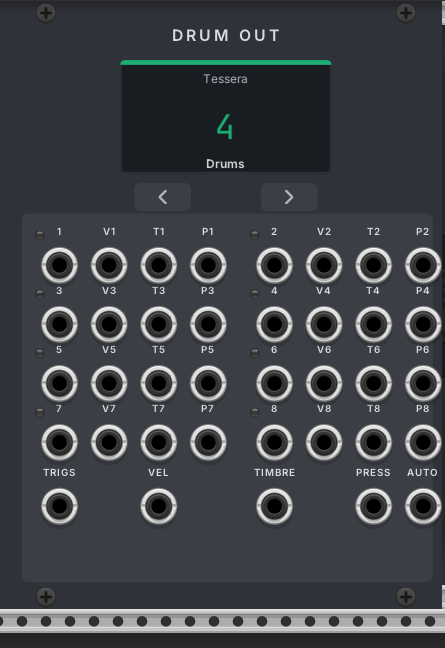
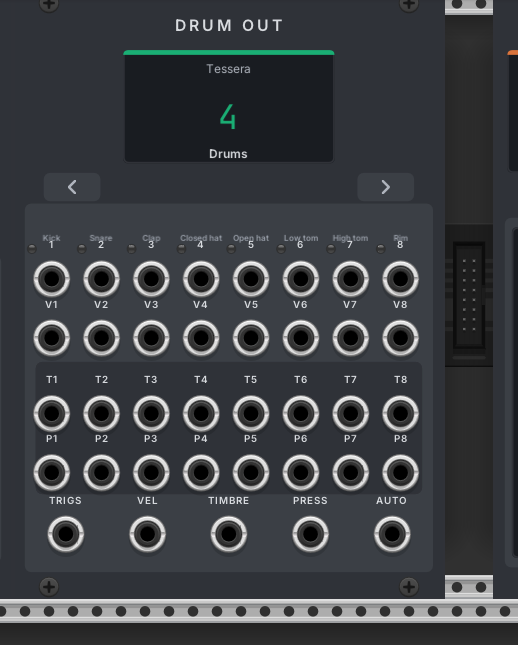
Redesign Drum Out as one vertical strip per lane with its name in the lane colour

diff --git a/src/ui/DrumOutWidget.cpp b/src/ui/DrumOutWidget.cpp
@@ -1,8 +1,10 @@
 #include "../module/DrumOutModule.hpp"
+#include "../module/TesseraModule.hpp"
 #include "../plugin.hpp"
 #include "ModuleUndo.hpp"
 #include "OutputMenus.hpp"
 #include "TrackOutDisplay.hpp"
+#include "widgets/Draw.hpp"
 #include "widgets/IconButton.hpp"
 #include "widgets/Lights.hpp"
 #include "widgets/Panel.hpp"
@@ -14,49 +16,95 @@ namespace {
 using rack::math::Rect;
 using rack::math::Vec;
 
-// Two layouts: the compact module is 10 HP (a trigger and a velocity jack per lane); expanded — the module
-// menu's "Expression outputs" — it is 18 HP and every lane also has its timbre and pressure jacks.
-constexpr int kCompactHp = 10;
-constexpr int kExpandedHp = 18;
+constexpr int kHp = 18;
 
-// Layout in mm. The compact panel is 50.8 x 128.5, the expanded 91.4 x 128.5.
-const Rect kDisplay(3, 12.5f, 44.8f, 24);
-const Rect kWideDisplay(23.3f, 12.5f, 44.8f, 24); // the same display, centred on the wide panel
+// Layout in mm. The panel is 91.4 x 128.5.
+const Rect kDisplay(23.3f, 12.5f, 44.8f, 24);
 constexpr float kButtonRow = 41.5f;
 const Vec kButtonSize(12, 6);
+const Rect kOutputPlate(2.5f, 45, 86.4f, 78);
+// One vertical strip per lane: the lane's name on top, then its four jacks. TRIG and VEL sit on the raised
+// plate; TIMBRE and PRESS recede into a tray below, so the trigger and velocity stay the visual focus.
+const Rect kExpressionTray(4.8f, 78.5f, 81.8f, 28);
+constexpr float kTrigRow = 61, kVelRow = 73.5f, kTimbreRow = 89.5f, kPressRow = 102;
+constexpr float kLaneX[8] = {8.2f, 18.75f, 29.3f, 39.85f, 50.4f, 60.95f, 71.5f, 82.05f};
+constexpr float kPolyRow = 115;
+constexpr float kPolyX[5] = {11.2f, 28.5f, 45.7f, 63.f, 80.3f};
 constexpr float kLightAbove = 6.4f;
 
-// Compact: two lanes per row, each a trigger jack and its velocity jack side by side.
-const Rect kCompactPlate(2.5f, 47, 45.8f, 75);
-constexpr float kCompactColumns[4] = {8.6f, 18.4f, 32.4f, 42.2f};
-constexpr float kCompactLaneRows[4] = {57, 70, 83, 96};
-constexpr float kCompactPolyRow = 112;
+/// The lane's name above its jack strip, in the lane's colour, so the panel mirrors the drum editor's lanes.
+struct LaneHeader : rack::widget::Widget {
+    LaneHeader(DrumOutModule* module, int lane) : module(module), lane(lane) {}
 
-// Expanded: every lane is a group of four jacks (TRIG, VEL, TIMBRE, PRESS); two lanes per row, a clear gap
-// between the left and the right lane.
-const Rect kExpandedPlate(2.5f, 45, 87, 78);
-constexpr float kExpandedLaneRows[4] = {56, 68.5f, 81, 93.5f};
-constexpr float kExpandedGroups[2][4] = {{10.5f, 21, 31.5f, 42}, {56, 66.5f, 77, 87.5f}};
-constexpr float kExpandedPolyRow = 107;
+    void draw(const DrawArgs& args) override {
+        const theme::Palette& c = theme::panelColors();
+        std::string name = "Lane " + std::to_string(lane + 1);
+        NVGcolor color = c.text2;
+        if (module) {
+            if (TesseraModule* src = module->source()) {
+                const Song& song = src->song();
+                int index = song.trackIndex(module->binding().track);
+                if (index >= 0 && lane < int(song.tracks[size_t(index)].drumLanes.size())) {
+                    const DrumLane& l = song.tracks[size_t(index)].drumLanes[size_t(lane)];
+                    if (!l.name.empty())
+                        name = l.name;
+                    if (l.color)
+                        color = theme::rgb(l.color);
+                }
+            }
+        }
+        // `draw` alone would find this class's draw() method; qualify the helpers' namespace.
+        tessera::draw::TextStyle style{theme::fonts::uiStrong(), theme::metrics::kPanelLaneName, color,
+                                       NVG_ALIGN_CENTER | NVG_ALIGN_BASELINE, 0.f};
+        tessera::draw::text(args.vg, style, box.size.x / 2, box.size.y - 1.2f,
+                            tessera::draw::ellipsize(args.vg, style, name, box.size.x));
+    }
+
+    DrumOutModule* module;
+    int lane;
+};
 
 } // namespace
 
 struct DrumOutWidget : rack::app::ModuleWidget {
     explicit DrumOutWidget(DrumOutModule* module) {
+        using M = DrumOutModule;
         setModule(module);
-        // Rack (and modules like Deepcache) build the widget with no module to preview it: nothing to read then.
-        builtExpanded = module && module->expanded;
-        build(builtExpanded);
+        PanelBuilder panel(this, kHp, "DRUM OUT");
+
+        auto* display = new TrackOutDisplay(module);
+        display->box = Rect(rack::mm2px(kDisplay.pos), rack::mm2px(kDisplay.size));
+        addChild(display);
+
+        // The track stepper flanks the display.
+        addStepButton(IconButton::Icon::Previous, Vec(12.5f, kButtonRow), "Previous drum track", -1);
+        addStepButton(IconButton::Icon::Next, Vec(78.9f, kButtonRow), "Next drum track", +1);
+
+        panel.art().addPlate(kOutputPlate);
+        panel.art().addSunkPlate(kExpressionTray);
+        for (int i = 0; i < M::kTrigJacks; i++) {
+            std::string lane = std::to_string(i + 1);
+            float x = kLaneX[i];
+            panel.output(Vec(x, kTrigRow), M::TRIG_OUTPUT + i, lane);
+            panel.output(Vec(x, kVelRow), M::VEL_OUTPUT + i, "V" + lane);
+            panel.output(Vec(x, kTimbreRow), M::TIMBRE_OUTPUT + i, "T" + lane);
+            panel.output(Vec(x, kPressRow), M::PRESS_OUTPUT + i, "P" + lane);
+            addChild(rack::createLightCentered<rack::componentlibrary::SmallLight<PlayLight>>(
+                rack::mm2px(Vec(x - 4.2f, kTrigRow - kLightAbove)), module, M::TRIG_LIGHT + i));
+            auto* header = new LaneHeader(module, i);
+            header->box = Rect(rack::mm2px(Vec(x - 5.3f, 47.6f)), rack::mm2px(Vec(10.6f, 5.8f)));
+            addChild(header);
+        }
+        const char* polyLabels[5] = {"TRIGS", "VEL", "TIMBRE", "PRESS", "AUTO"};
+        const int polyOutputs[5] = {M::TRIG_POLY_OUTPUT, M::VEL_POLY_OUTPUT, M::TIMBRE_POLY_OUTPUT,
+                                    M::PRESS_POLY_OUTPUT, M::AUTO_OUTPUT};
+        for (int k = 0; k < 5; k++)
+            panel.output(Vec(kPolyX[k], kPolyRow), polyOutputs[k], polyLabels[k]);
     }
 
     void step() override {
-        if (auto* m = outputModule()) {
+        if (auto* m = outputModule())
             m->refreshBinding();
-            if (m->expanded != builtExpanded) {
-                builtExpanded = m->expanded;
-                build(builtExpanded);
-            }
-        }
         ModuleWidget::step();
     }
 
@@ -69,64 +117,9 @@ struct DrumOutWidget : rack::app::ModuleWidget {
                                                [m](rack::ui::Menu* sub) { appendSourceMenu(sub, m, "Drum Out"); }));
         menu->addChild(rack::createSubmenuItem(
             "Track", "", [m](rack::ui::Menu* sub) { appendTrackMenu(sub, m, "Drum Out"); }, m->source() == nullptr));
-        menu->addChild(rack::createBoolMenuItem("Expression outputs (TIMBRE / PRESS per lane)", "",
-                                                [m] { return m->expanded; }, [m](bool on) { m->expanded = on; }));
     }
 
   private:
-    bool builtExpanded = false;
-
-    /// (Re)builds the panel and its controls for the compact or the expanded layout.
-    void build(bool expand) {
-        using M = DrumOutModule;
-        DrumOutModule* module = outputModule();
-        int hp = expand ? kExpandedHp : kCompactHp;
-        box.size = rack::math::Vec(float(hp) * rack::RACK_GRID_WIDTH, rack::RACK_GRID_HEIGHT);
-        // Delete every child except the panel: the PanelBuilder's setPanel() removes, deletes and replaces the
-        // old panel itself, and asserts if clearChildren() got there first.
-        rack::widget::Widget* oldPanel = getPanel();
-        for (auto it = children.begin(); it != children.end();) {
-            rack::widget::Widget* child = *it++;
-            if (child != oldPanel) {
-                removeChild(child);
-                delete child;
-            }
-        }
-        PanelBuilder panel(this, hp, "DRUM OUT");
-
-        const Rect& displayRect = expand ? kWideDisplay : kDisplay;
-        auto* display = new TrackOutDisplay(module);
-        display->box = Rect(rack::mm2px(displayRect.pos), rack::mm2px(displayRect.size));
-        addChild(display);
-
-        float centerShift = expand ? kWideDisplay.pos.x - kDisplay.pos.x : 0;
-        addStepButton(IconButton::Icon::Previous, Vec(12 + centerShift, kButtonRow), "Previous drum track", -1);
-        addStepButton(IconButton::Icon::Next, Vec(38.8f + centerShift, kButtonRow), "Next drum track", +1);
-
-        panel.art().addPlate(expand ? kExpandedPlate : kCompactPlate);
-        for (int i = 0; i < M::kTrigJacks; i++) {
-            std::string lane = std::to_string(i + 1);
-            int row = i / 2, side = i % 2;
-            float y = expand ? kExpandedLaneRows[row] : kCompactLaneRows[row];
-            Vec trig(expand ? kExpandedGroups[side][0] : kCompactColumns[side * 2], y);
-            panel.output(trig, M::TRIG_OUTPUT + i, lane);
-            panel.output(Vec(expand ? kExpandedGroups[side][1] : kCompactColumns[side * 2 + 1], y), M::VEL_OUTPUT + i,
-                         "V" + lane);
-            if (expand) {
-                panel.output(Vec(kExpandedGroups[side][2], y), M::TIMBRE_OUTPUT + i, "T" + lane);
-                panel.output(Vec(kExpandedGroups[side][3], y), M::PRESS_OUTPUT + i, "P" + lane);
-            }
-            addChild(rack::createLightCentered<rack::componentlibrary::SmallLight<PlayLight>>(
-                rack::mm2px(trig.plus(Vec(-4.2f, -kLightAbove))), module, M::TRIG_LIGHT + i));
-        }
-        if (expand) {
-            panel.output(Vec(kExpandedGroups[0][0], kExpandedPolyRow), M::TRIG_POLY_OUTPUT, "TRIGS");
-            panel.output(Vec(kExpandedGroups[0][2], kExpandedPolyRow), M::VEL_POLY_OUTPUT, "VEL");
-            panel.output(Vec(kExpandedGroups[1][0], kExpandedPolyRow), M::TIMBRE_POLY_OUTPUT, "TIMBRE");
-            panel.output(Vec(kExpandedGroups[1][2], kExpandedPolyRow), M::PRESS_POLY_OUTPUT, "PRESS");
-            panel.output(Vec(kExpandedGroups[1][3], kExpandedPolyRow), M::AUTO_OUTPUT, "AUTO");
-        }
-    }
     DrumOutModule* outputModule() const { return static_cast<DrumOutModule*>(module); }
 
     void addStepButton(IconButton::Icon icon, Vec centerMm, const std::string& tooltip, int delta) {

diff --git a/src/ui/widgets/Panel.cpp b/src/ui/widgets/Panel.cpp
@@ -34,6 +34,8 @@ void PanelArt::addLabel(rack::math::Vec mm, const std::string& text, LabelKind k
 
 void PanelArt::addPlate(rack::math::Rect mm) { plates.push_back(mm); }
 
+void PanelArt::addSunkPlate(rack::math::Rect mm) { sunkPlates.push_back(mm); }
+
 void PanelArt::step() {
     // The artwork is cached; repaint it when Rack's panel setting (or the scheme) changes.
     if (drawnGeneration != theme::generation()) {
@@ -57,6 +59,12 @@ void PanelArt::draw(const DrawArgs& args) {
     for (const rack::math::Rect& p : plates)
         draw::roundedRect(vg, rack::math::Rect(rack::mm2px(p.pos), rack::mm2px(p.size)),
                           theme::metrics::kPanelPlateRadius, c.bg2);
+
+    for (const rack::math::Rect& p : sunkPlates) {
+        rack::math::Rect r(rack::mm2px(p.pos), rack::mm2px(p.size));
+        draw::roundedRect(vg, r, theme::metrics::kPanelPlateRadius, c.bg1);
+        draw::roundedRectStroke(vg, r, theme::metrics::kPanelPlateRadius, c.line0, 0.75f);
+    }
 
     for (const Label& l : labels) {
         rack::math::Vec px = rack::mm2px(l.mm);

diff --git a/src/ui/widgets/Panel.hpp b/src/ui/widgets/Panel.hpp
@@ -34,6 +34,9 @@ class PanelArt : public rack::widget::Widget {
     void addLabel(rack::math::Vec mm, const std::string& text, LabelKind kind);
     /// A raised area that groups outputs (Rack convention: outputs sit on a contrasting plate).
     void addPlate(rack::math::Rect mm);
+    /// The opposite of a plate: a recessed tray that de-emphasises what's inside it, so the rest of the
+    /// plate reads as the primary area.
+    void addSunkPlate(rack::math::Rect mm);
 
     void draw(const DrawArgs& args) override;
     void step() override;
@@ -47,6 +50,7 @@ class PanelArt : public rack::widget::Widget {
     };
     std::vector<Label> labels;
     std::vector<rack::math::Rect> plates;
+    std::vector<rack::math::Rect> sunkPlates;
 };
 
 /// Builds a module panel: the cached artwork, screws, and controls with their labels in one call each.

diff --git a/src/ui/Theme.hpp b/src/ui/Theme.hpp
@@ -142,6 +142,7 @@ constexpr float kReadoutOffset = 16; // readout pill distance from the cursor
 // Module panels (panel px; 1 mm ≈ 2.95 px)
 constexpr float kPanelLabel = 7.5f;
 constexpr float kPanelLabelSpacing = 0.6f; // letter spacing for uppercase labels
+constexpr float kPanelLaneName = 6.2f; // a lane's name above its jacks: long names must fit a narrow strip
 constexpr float kPanelTitle = 12;
 constexpr float kPanelDisplayRadius = 3;
 constexpr float kPanelPlateRadius = 4;

diff --git a/docs/manual/02-modules.md b/docs/manual/02-modules.md
@@ -152,25 +152,27 @@ V/OCT.
 
 ![The Drum Out module](images/drum-out.png)
 
-Drum Out plays one **drum track**. Each drum sound (a "lane", such as Kick or Snare) has an output number from 1 to
-16.
+Drum Out plays one **drum track**. Each drum sound (a "lane", such as Kick or Snare) is a vertical strip with its
+name in the lane's colour at the top: a trigger and velocity jack on the raised plate, and the lane's timbre and
+pressure jacks in a recessed tray below. Lanes 1 to 8 have their own strips; lanes 9 to 16 reach only the poly
+jacks.
 
 | Jack | What it sends |
 |---|---|
 | **1** to **8** | A trigger (or gate) for the lanes on outputs 1 to 8. The small light flashes on each hit. |
 | **V1** to **V8** | The velocity of the last hit on that output, 0 to 10 V. It holds until the next hit. |
+| **T1** to **T8** | The lane's timbre curve, 0 to 10 V: the expression curve of the hit now playing. |
+| **P1** to **P8** | The lane's pressure curve, 0 to 10 V. |
 | **TRIGS** | All 16 outputs on one poly cable, one channel per output. |
 | **VEL** | All 16 velocities on one poly cable. |
-| **TIMBRE** | All 16 lanes' timbre curves on one poly cable, 0 to 10 V: the expression curve of the hit now playing. |
-| **PRESS** | All 16 lanes' pressure curves on one poly cable, 0 to 10 V. |
+| **TIMBRE** | All 16 lanes' timbre curves on one poly cable. |
+| **PRESS** | All 16 lanes' pressure curves on one poly cable. |
 | **AUTO** | The track's automation lanes, one channel per lane. |
-| **T1–T8, P1–P8** | Each lane's timbre and pressure on its own jack, like **1–8** and **V1–V8**. Right-click the module and tick **Expression outputs** to grow the panel and show them; untick to shrink it back. |
 
 Lanes on outputs 9 to 16 reach only the poly jacks. A lane sends a short 1 ms trigger by default, a gate of a set
 length, or a gate as long as its note. See [Drums](09-drums.md#lane-settings). A hit's pitch expression bends the
-pitch on the trigger outputs (1 V per octave), and its timbre and pressure curves come out of **TIMBRE** and
-**PRESS** (or the per-lane **T** / **P** jacks when the module is expanded) while the hit plays, holding their last
-value afterwards.
+pitch on the trigger outputs (1 V per octave), and its timbre and pressure curves come out of **T1–T8** and
+**P1–P8** (or the **TIMBRE** / **PRESS** poly jacks) while the hit plays, holding their last value afterwards.
 
 The screen, arrows and menu work like Track Out's. A new Drum Out picks the first drum track with no output yet.
 

diff --git a/docs/DECISIONS.md b/docs/DECISIONS.md
@@ -1297,9 +1297,12 @@ Impact: `Engine::advanceAutomation` checks `tp.audible`; the manual's mute and a
 - **A drum hit's expression curves play on the lane's outputs, like a voice's.** Pitch expression bends the lane's
   pitch (V/OCT), timbre and pressure play on Drum Out (0-10 V). Curves span the written note; after it they hold
   their last value. While any lane plays a curve the track runs per sample, as a curved voice already does.
-- **Drum Out stays 10 HP until you ask for more.** A right-click item, "Expression outputs", grows the module to
-  18 HP: every lane gains its own timbre and pressure jack next to its trigger and velocity. The poly TIMBRE and
-  PRESS jacks exist in both sizes, so patches and cables keep working either way.
+- **Drum Out is a fixed 18 HP module.** Every lane has its own timbre and pressure jack next to its trigger and
+  velocity. An expandable panel (a right-click toggle that resized the widget) was tried first and dropped: it
+  rebuilt the widget at runtime, which fought Rack's ModuleWidget panel ownership — two crashes — for no musical
+  gain. The panel lays one vertical strip per lane — the lane's name in its colour above its four jacks — with
+  trigger and velocity on the raised plate and timbre and pressure in a recessed tray below, so the trigger and
+  velocity outputs stay the visual focus.
 - **The curves live in the snapshot**, so a snapshot swap re-finds a sounding lane's curves by clip and note ID,
   the same re-attachment voices use.
 

diff --git a/docs/QA.md b/docs/QA.md
@@ -203,8 +203,8 @@ Run before each milestone commit. Items marked *(later)* become testable in the 
       different); the lane header shows T / G / N. Fixed gates and triggers are unchanged.
 - [ ] Drum Out: TIMBRE and PRESS poly outputs follow a hit's expression curves while it plays and hold after it;
       pitch expression bends the lane's pitch on the trigger outputs.
-- [ ] Drum Out: right-click, Expression outputs grows the panel to per-lane T/P jacks (cables on hidden jacks keep
-      working); unticking shrinks it; the state survives saving and reloading the patch.
+- [ ] Drum Out: each lane strip shows the lane's name in its colour; TRIG/VEL sit on the raised plate and T/P
+      in the recessed tray; all jacks are inside the panel; renaming a lane in the editor updates the strip.
 - [ ] Scale device: Root and Scale knobs hide unless Key from is Fixed; the card shrinks and grows back when the
       Key from knob is turned.
 - [ ] File menu: with a changed song, New song and Open project… open a submenu that says the current song is
